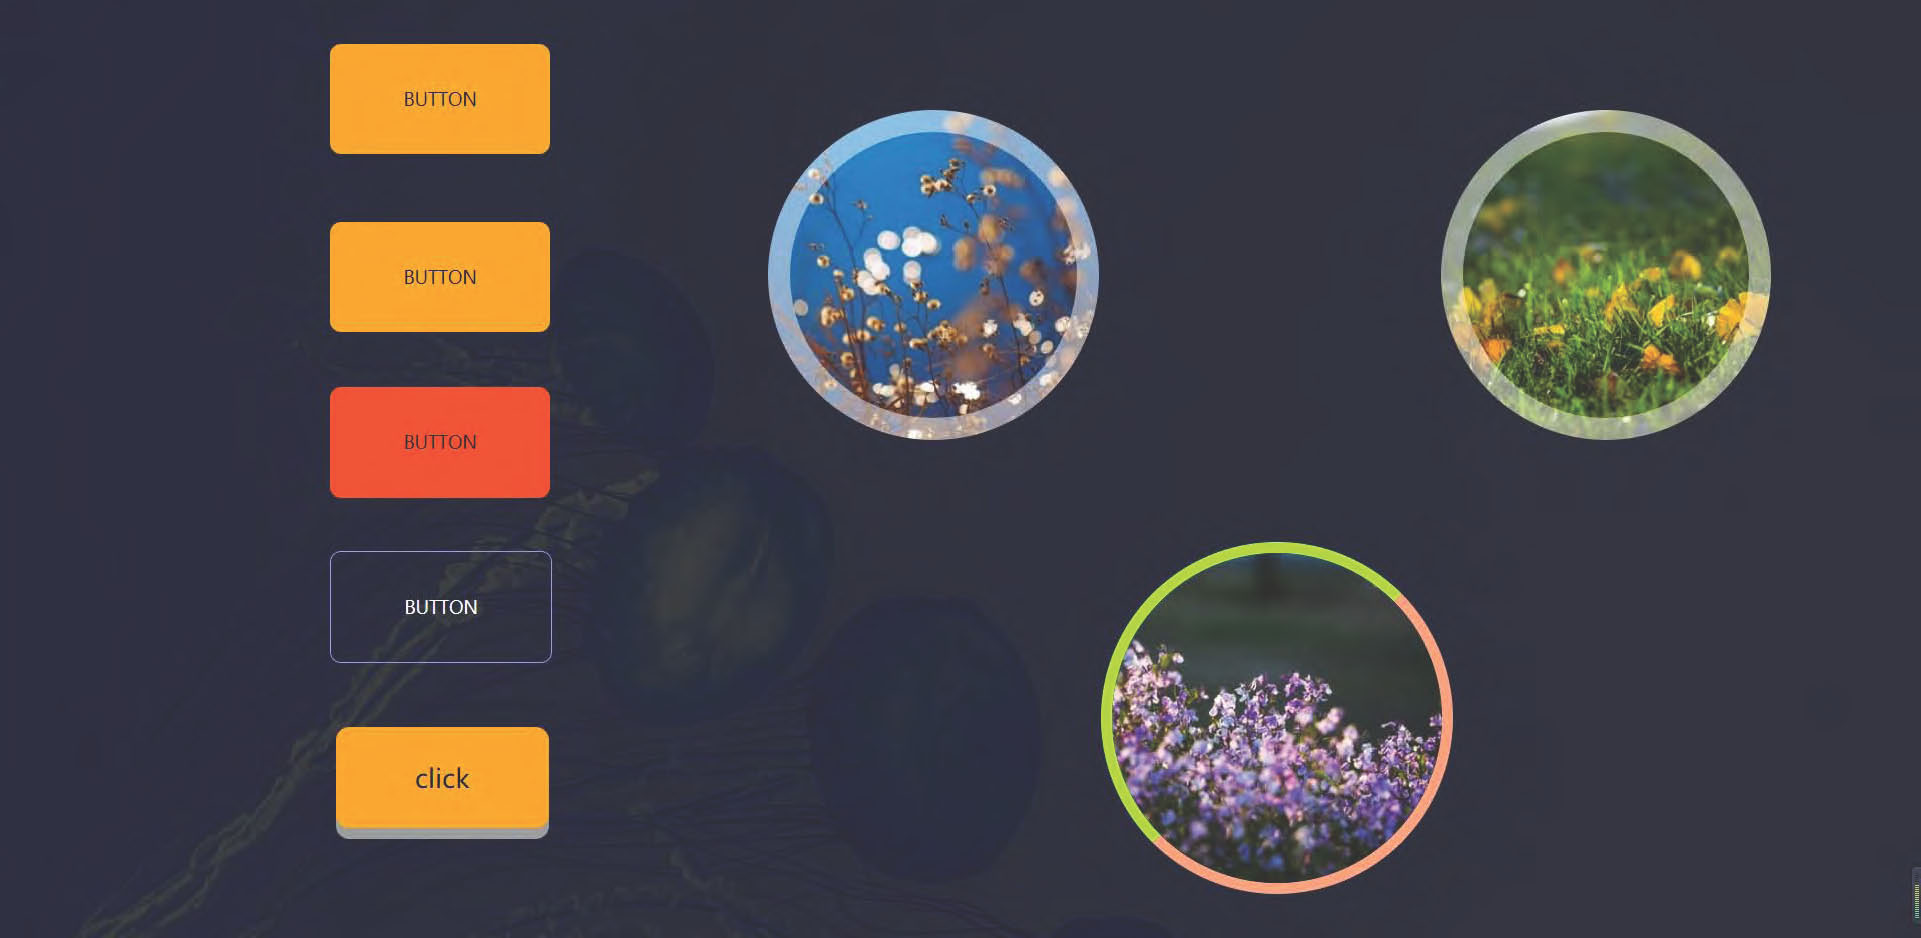
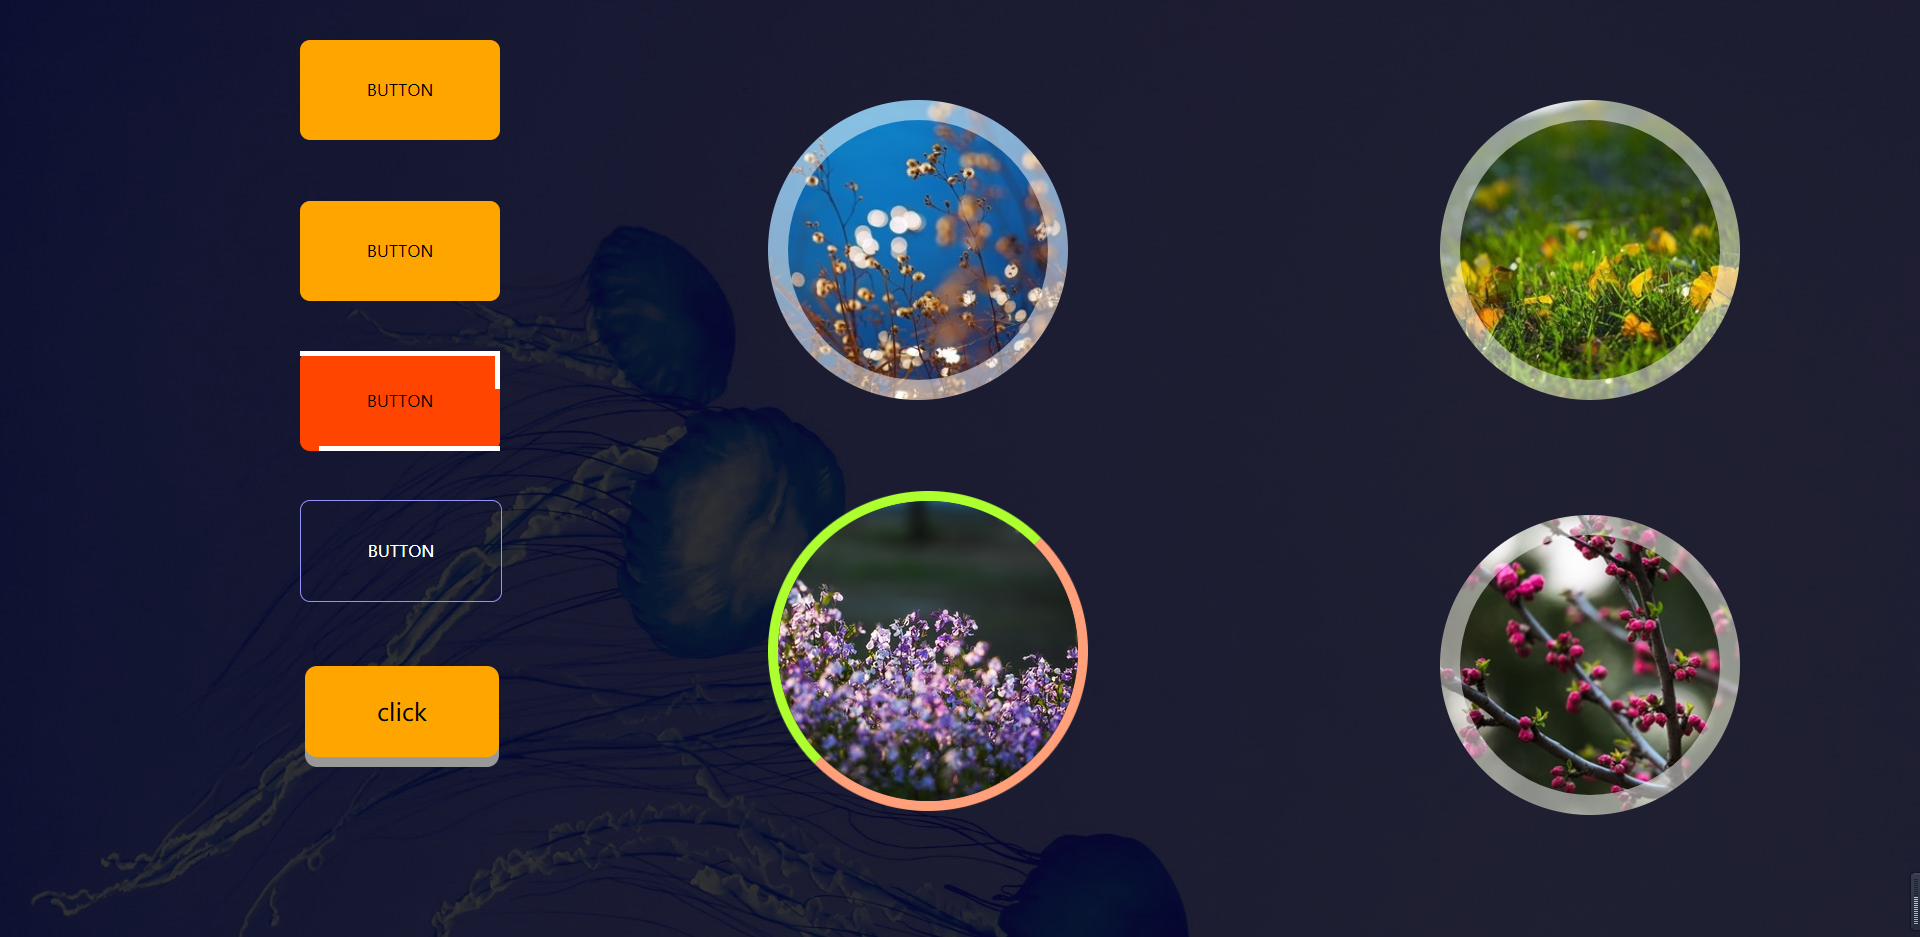
uploading img

diff --git a/jqpractice/ghostButton1.html b/jqpractice/ghostButton1.html
@@ -193,7 +193,6 @@
         .border {
             position: relative;
             top: 90px;
-            /* left: 1000px; */
             width: 300px;
             height: 300px;
             border-radius: 50%;
@@ -209,7 +208,7 @@
             height: 300px;
             border-radius: 50%;
             position: absolute;
-            left: 1000px;
+            left: 40%;
         }
 
         .container .content {
@@ -241,7 +240,7 @@
             width: 100%;
             height: 100%;
             position: absolute;
-            top: 0px;
+            top: 0;
             left: 0;
             text-align: center;
             background: rgba(0, 0, 0, .6);
@@ -398,6 +397,76 @@
         .btn-3:hover .mask {
             opacity: 1;
         }
+
+        /* 第四个 */
+        .btn-4 {
+            position: absolute;
+            top: 55vh;
+            left: 75%;
+            width: 300px;
+            height: 300px;
+            border-radius: 50%;
+            transition: all .8s;
+            text-align: center;
+            border-radius: 50%;
+            perspective: 800px;
+        }
+
+        .btn-4 .shrink {
+            width: 300px;
+            height: 300px;
+            border-radius: 50%;
+            background: url('./img/images/6.png') no-repeat center;
+            background-size: 120%;
+            transition: all .8s;
+            margin: 0 auto;
+            border: 20px solid rgba(255, 255, 255, .5);
+            box-sizing: border-box;
+            transform-origin: center;
+        }
+
+        .btn-4 .mask {
+            width: 300px;
+            height: 300px;
+            position: absolute;
+            top: 0;
+            left: 0;
+            opacity: 0;
+            transition: all .8s;
+            transform: scale(0.5);
+            background: rgba(0, 0, 0, .6);
+            border-radius: 50%;
+
+        }
+
+        .btn-4 h3 {
+            font-size: 28px;
+            font-weight: 500;
+            text-transform: uppercase;
+            margin-top: 60px;
+            letter-spacing: 1px;
+            color: white;
+        }
+
+        .btn-4 p {
+            display: block;
+            width: 200px;
+            margin: 0 auto;
+            border-top: 1px solid #999;
+            color: #999;
+            font-style: italic;
+
+        }
+
+        .btn-4:hover .shrink {
+            transform: scale(.5);
+            opacity: 0;
+        }
+
+        .btn-4:hover .mask {
+            transform: scale(1);
+            opacity: 1;
+        }
     </style>
 </head>
 
@@ -465,7 +534,17 @@
             <p>Description goes here</p>
         </div>
     </div>
+    <!-- 第四个 -->
+    <div class="btn-4">
+        <span></span>
+        <div class="shrink">
 
+        </div>
+        <div class="mask">
+            <h3>Heading <br> here</h3>
+            <p>Description goes here</p>
+        </div>
+    </div>
     <script src="https://cdn.bootcss.com/jquery/1.12.4/jquery.min.js"></script>
     <script>
         //谷歌幽灵按钮

diff --git a/index.html b/index.html
@@ -263,7 +263,7 @@
                 <div class="row">
                     <h4 class="col-s-12">HTML5</h4><br>
                     <div class="col-s-6">
-                        <a href="https://MKP999.github.io/HTML5/ballWar/" target="_blank">
+                        <a href="https://MKP999.github.io/HTML5/BallWar/" target="_blank">
                             <div class="works-item">
                                 <img src="./assets/img/projectimg/canvas球球大作战.png" />
                                 <p>canvas球球大作战小游戏</p>
